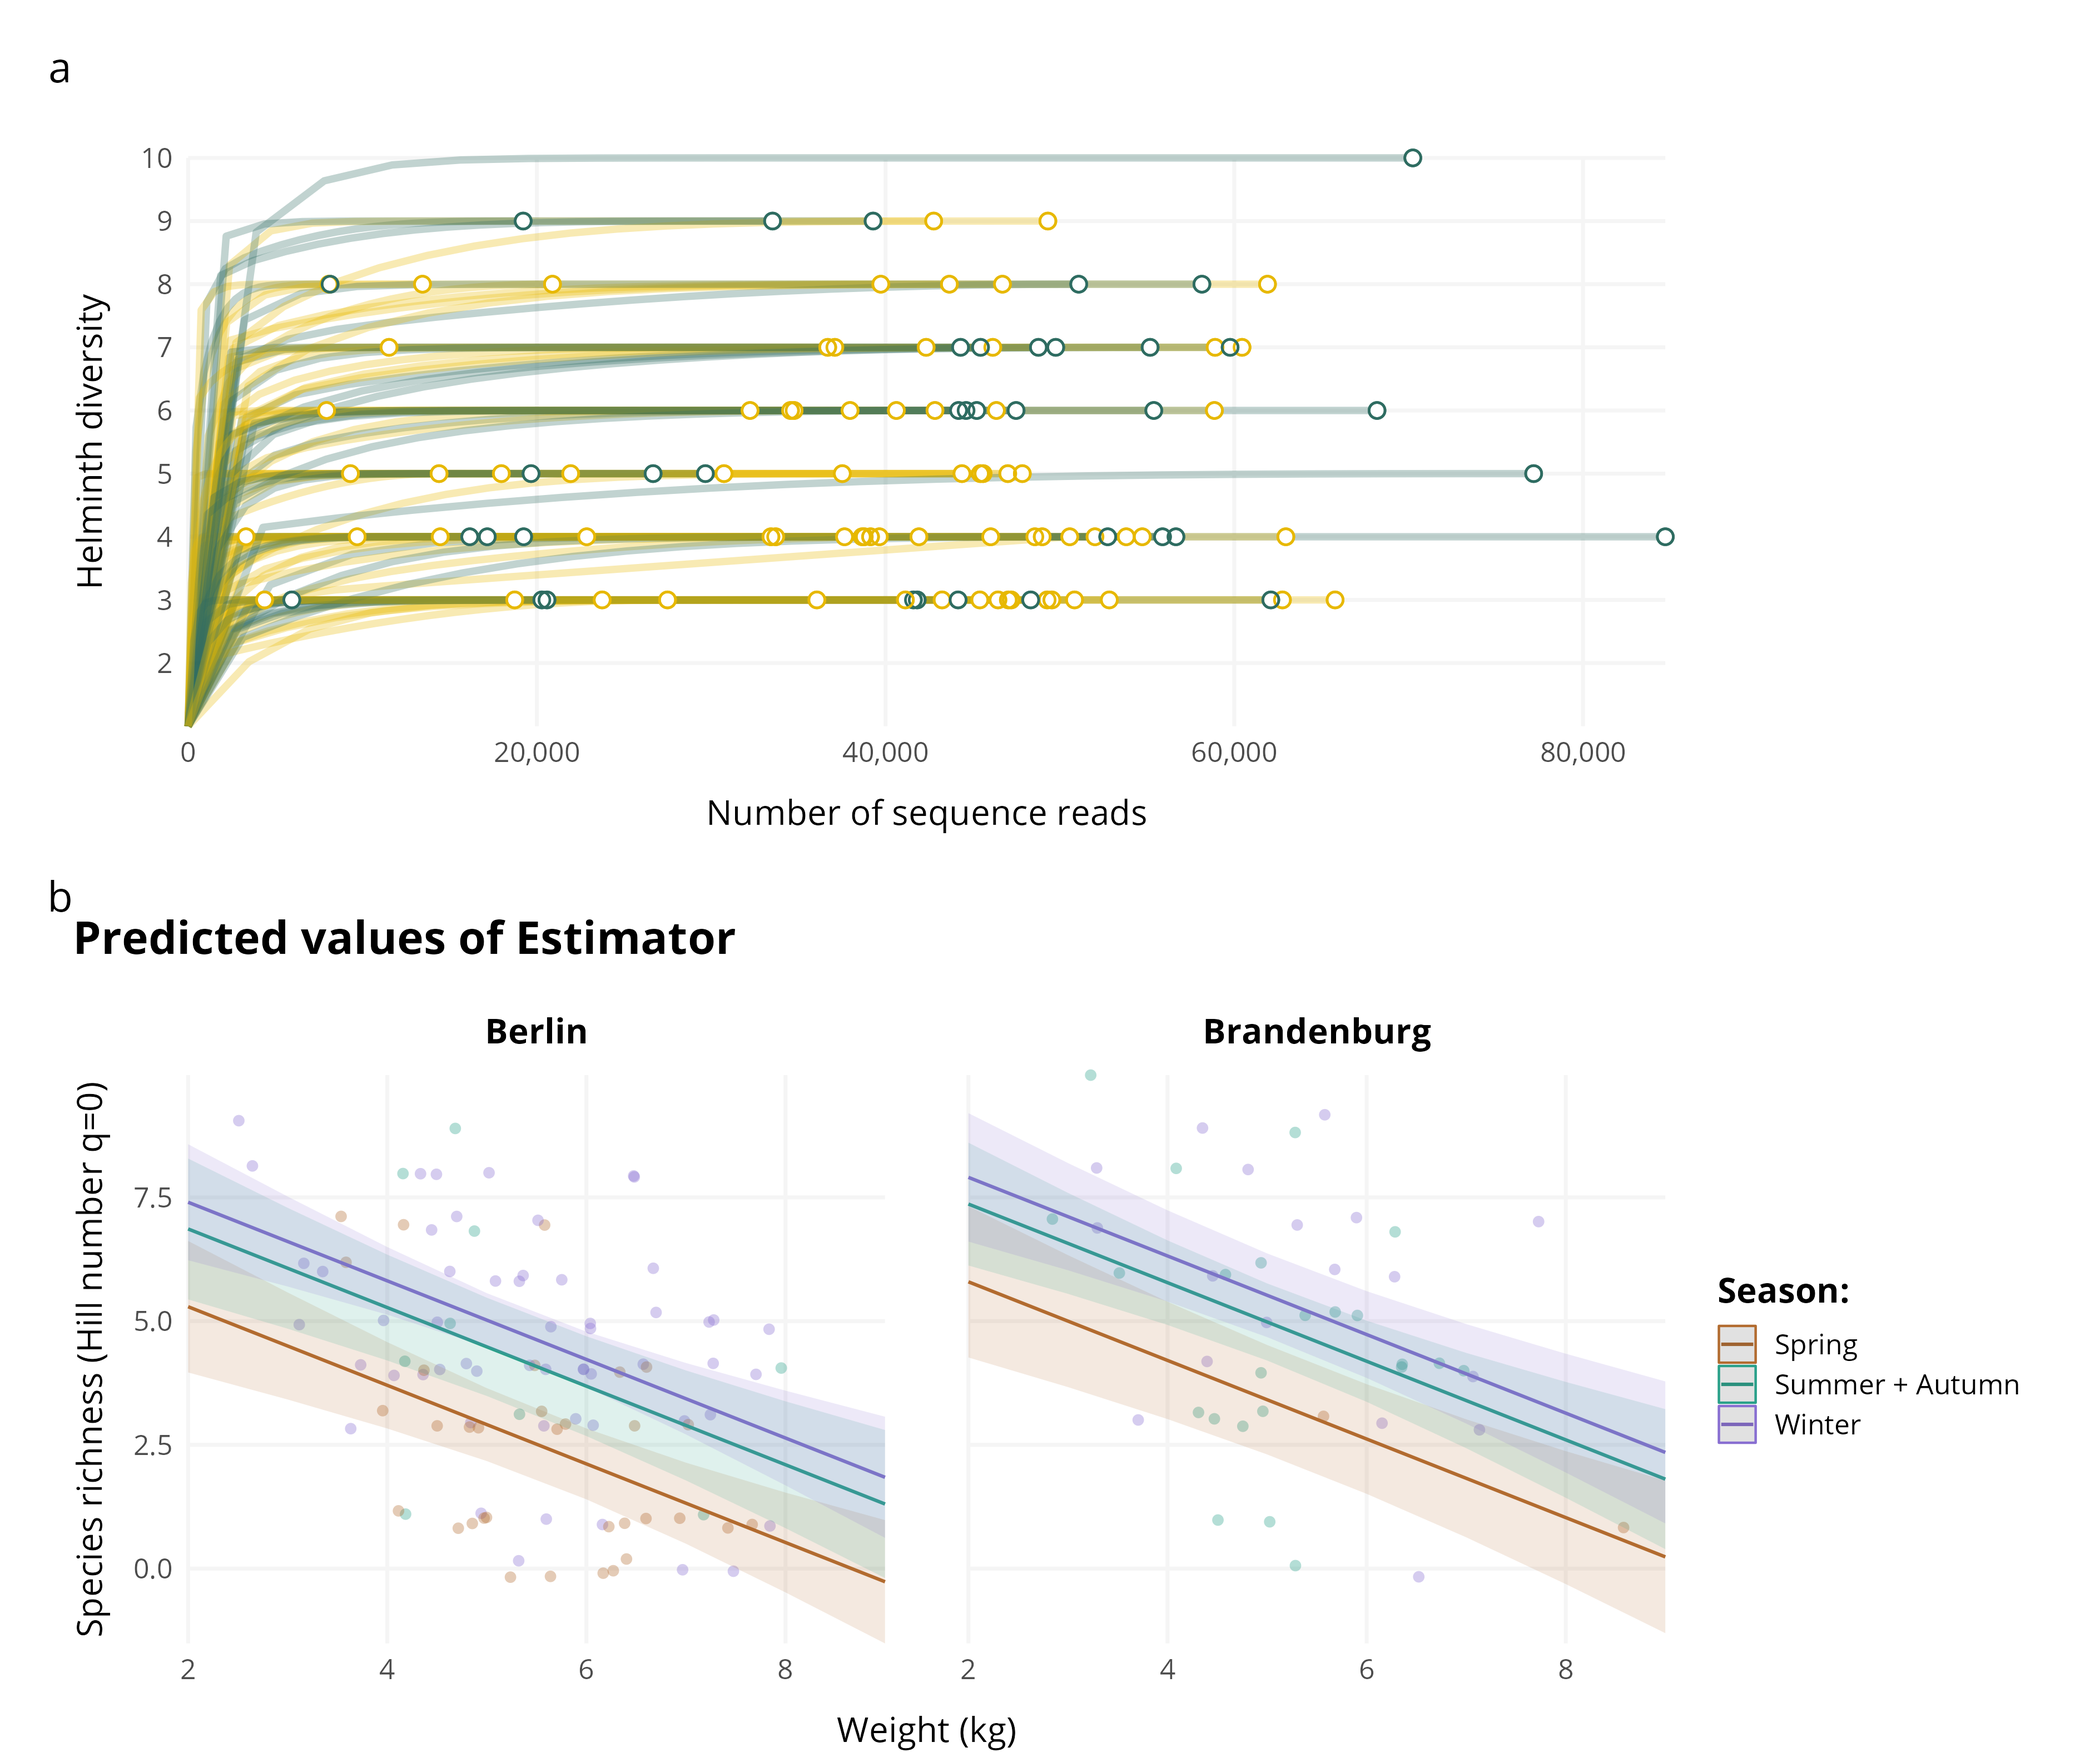
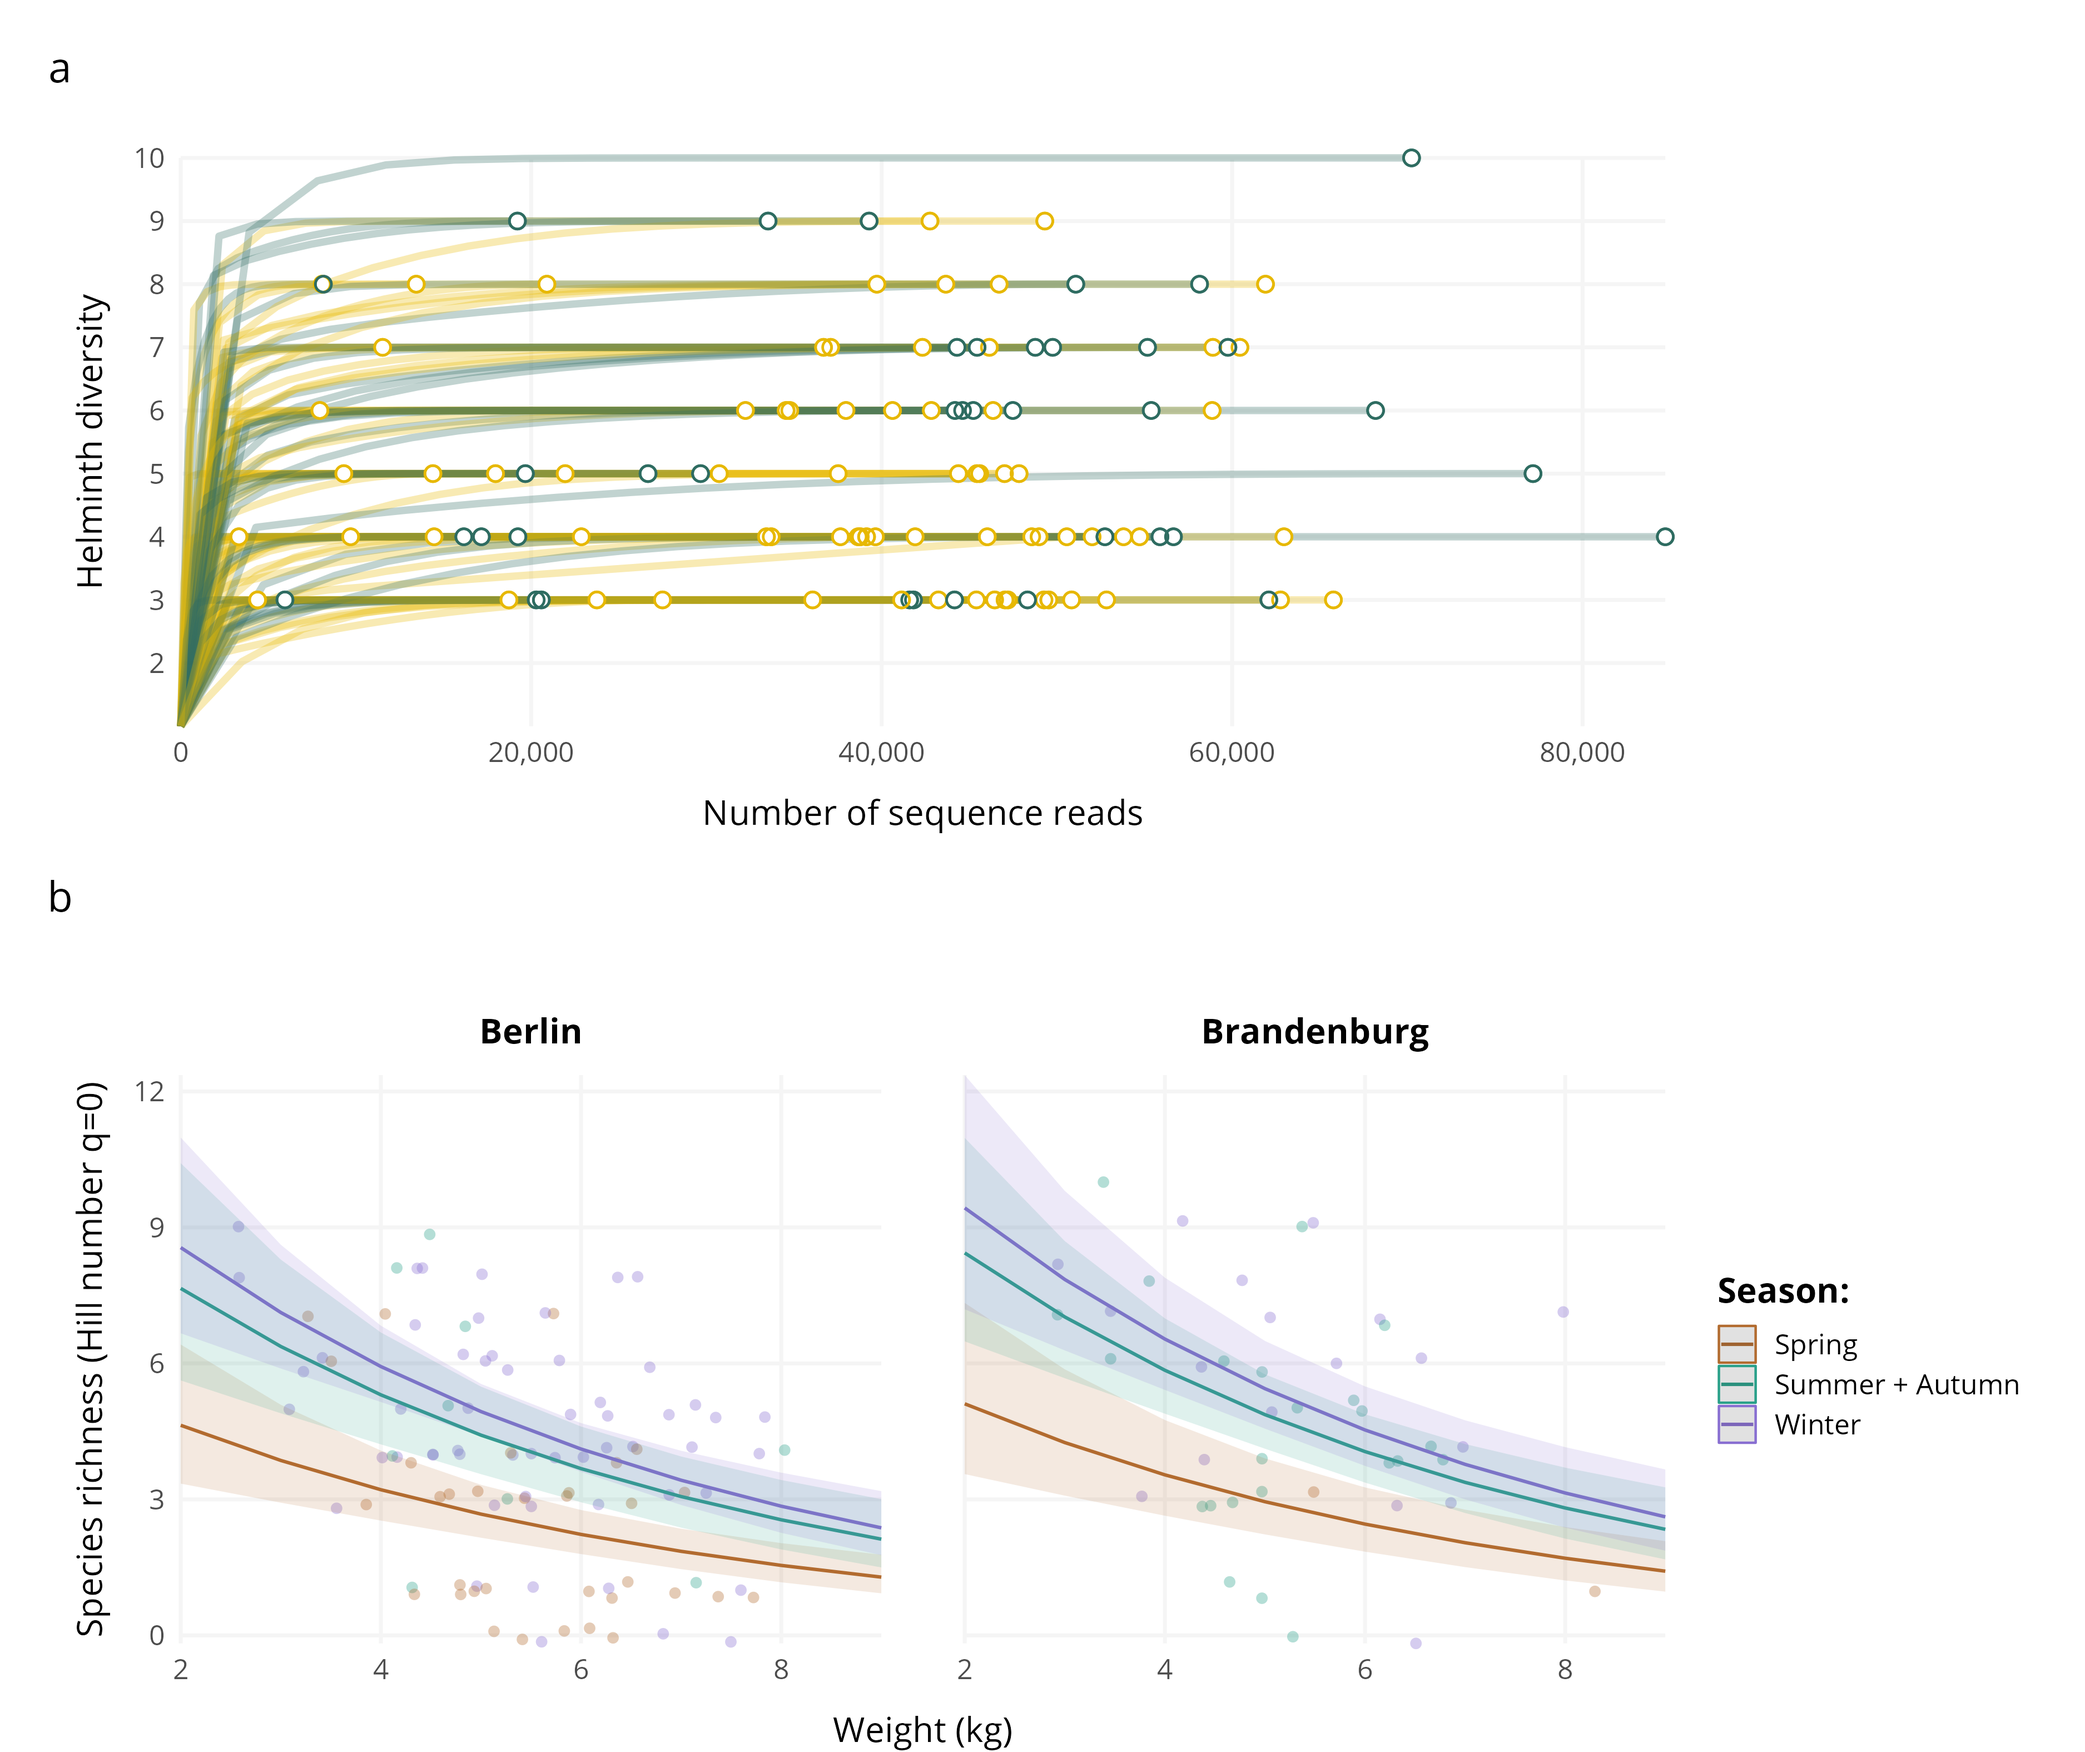
Final touch Fig2 and Table 2.

diff --git a/tables/HelmDiversityq0.html b/tables/HelmDiversityq0.html
@@ -1,52 +1,27 @@
 
-<table style="text-align:center"><tr><td colspan="6" style="border-bottom: 1px solid black"></td></tr><tr><td style="text-align:left"></td><td colspan="5">Species Richness (q=0)</td></tr>
-<tr><td></td><td colspan="5" style="border-bottom: 1px solid black"></td></tr>
-<tr><td style="text-align:left"></td><td colspan="5"></td></tr>
-<tr><td style="text-align:left"></td><td>(1)</td><td>(2)</td><td>(3)</td><td>(4)</td><td>(5)</td></tr>
-<tr><td colspan="6" style="border-bottom: 1px solid black"></td></tr><tr><td style="text-align:left">Constant</td><td>0.518</td><td>1.192</td><td>0.778</td><td>0.284</td><td>0.978</td></tr>
-<tr><td style="text-align:left"></td><td>(2.375)</td><td>(2.383)</td><td>(2.290)</td><td>(2.354)</td><td>(2.418)</td></tr>
-<tr><td style="text-align:left"></td><td></td><td></td><td></td><td></td><td></td></tr>
-<tr><td style="text-align:left">areaBrandenburg</td><td>0.143</td><td></td><td></td><td></td><td></td></tr>
-<tr><td style="text-align:left"></td><td>(0.128)</td><td></td><td></td><td></td><td></td></tr>
-<tr><td style="text-align:left"></td><td></td><td></td><td></td><td></td><td></td></tr>
-<tr><td style="text-align:left">imperv_1000m</td><td></td><td>-0.001</td><td></td><td></td><td>-0.002</td></tr>
-<tr><td style="text-align:left"></td><td></td><td>(0.002)</td><td></td><td></td><td>(0.004)</td></tr>
-<tr><td style="text-align:left"></td><td></td><td></td><td></td><td></td><td></td></tr>
-<tr><td style="text-align:left">tree_cover_1000m</td><td></td><td></td><td>0.001</td><td></td><td>0.001</td></tr>
-<tr><td style="text-align:left"></td><td></td><td></td><td>(0.003)</td><td></td><td>(0.003)</td></tr>
-<tr><td style="text-align:left"></td><td></td><td></td><td></td><td></td><td></td></tr>
-<tr><td style="text-align:left">human_fpi_1000m</td><td></td><td></td><td></td><td>-0.002</td><td>0.003</td></tr>
-<tr><td style="text-align:left"></td><td></td><td></td><td></td><td>(0.005)</td><td>(0.008)</td></tr>
-<tr><td style="text-align:left"></td><td></td><td></td><td></td><td></td><td></td></tr>
-<tr><td style="text-align:left">conditionexcellent</td><td>-0.091</td><td>-0.084</td><td>-0.078</td><td>-0.084</td><td>-0.071</td></tr>
-<tr><td style="text-align:left"></td><td>(0.103)</td><td>(0.101)</td><td>(0.101)</td><td>(0.103)</td><td>(0.105)</td></tr>
-<tr><td style="text-align:left"></td><td></td><td></td><td></td><td></td><td></td></tr>
-<tr><td style="text-align:left">weight_kg</td><td>-0.199<sup>***</sup></td><td>-0.202<sup>***</sup></td><td>-0.204<sup>***</sup></td><td>-0.205<sup>***</sup></td><td>-0.201<sup>***</sup></td></tr>
-<tr><td style="text-align:left"></td><td>(0.043)</td><td>(0.042)</td><td>(0.042)</td><td>(0.042)</td><td>(0.043)</td></tr>
-<tr><td style="text-align:left"></td><td></td><td></td><td></td><td></td><td></td></tr>
-<tr><td style="text-align:left">sexmale</td><td>0.157</td><td>0.212<sup>**</sup></td><td>0.218<sup>**</sup></td><td>0.187<sup>*</sup></td><td>0.221<sup>**</sup></td></tr>
-<tr><td style="text-align:left"></td><td>(0.105)</td><td>(0.105)</td><td>(0.105)</td><td>(0.106)</td><td>(0.108)</td></tr>
-<tr><td style="text-align:left"></td><td></td><td></td><td></td><td></td><td></td></tr>
-<tr><td style="text-align:left">agejuvenil</td><td>0.024</td><td>-0.100</td><td>-0.103</td><td>0.004</td><td>-0.099</td></tr>
-<tr><td style="text-align:left"></td><td>(0.196)</td><td>(0.209)</td><td>(0.209)</td><td>(0.195)</td><td>(0.210)</td></tr>
-<tr><td style="text-align:left"></td><td></td><td></td><td></td><td></td><td></td></tr>
-<tr><td style="text-align:left">seasonspring</td><td>0.399<sup>**</sup></td><td>0.495<sup>***</sup></td><td>0.523<sup>***</sup></td><td>0.471<sup>***</sup></td><td>0.512<sup>***</sup></td></tr>
-<tr><td style="text-align:left"></td><td>(0.170)</td><td>(0.160)</td><td>(0.152)</td><td>(0.160)</td><td>(0.163)</td></tr>
-<tr><td style="text-align:left"></td><td></td><td></td><td></td><td></td><td></td></tr>
-<tr><td style="text-align:left">seasonwinter</td><td>0.549<sup>***</sup></td><td>0.563<sup>***</sup></td><td>0.578<sup>***</sup></td><td>0.564<sup>***</sup></td><td>0.565<sup>***</sup></td></tr>
-<tr><td style="text-align:left"></td><td>(0.138)</td><td>(0.139)</td><td>(0.134)</td><td>(0.136)</td><td>(0.139)</td></tr>
-<tr><td style="text-align:left"></td><td></td><td></td><td></td><td></td><td></td></tr>
-<tr><td style="text-align:left">DNAng.ul</td><td>-0.001</td><td>-0.001</td><td>-0.001</td><td>-0.001</td><td>-0.001</td></tr>
-<tr><td style="text-align:left"></td><td>(0.001)</td><td>(0.001)</td><td>(0.001)</td><td>(0.001)</td><td>(0.001)</td></tr>
-<tr><td style="text-align:left"></td><td></td><td></td><td></td><td></td><td></td></tr>
-<tr><td style="text-align:left">DNA260.230</td><td>0.064</td><td>0.079</td><td>0.072</td><td>0.060</td><td>0.081</td></tr>
-<tr><td style="text-align:left"></td><td>(0.108)</td><td>(0.110)</td><td>(0.107)</td><td>(0.108)</td><td>(0.110)</td></tr>
-<tr><td style="text-align:left"></td><td></td><td></td><td></td><td></td><td></td></tr>
-<tr><td style="text-align:left">DNA260.280</td><td>0.687</td><td>0.329</td><td>0.508</td><td>0.869</td><td>0.385</td></tr>
-<tr><td style="text-align:left"></td><td>(1.295)</td><td>(1.281)</td><td>(1.238)</td><td>(1.245)</td><td>(1.287)</td></tr>
-<tr><td style="text-align:left"></td><td></td><td></td><td></td><td></td><td></td></tr>
-<tr><td colspan="6" style="border-bottom: 1px solid black"></td></tr><tr><td style="text-align:left">Observations</td><td>152</td><td>150</td><td>150</td><td>151</td><td>150</td></tr>
-<tr><td style="text-align:left">Log Likelihood</td><td>-301.679</td><td>-295.834</td><td>-295.812</td><td>-299.554</td><td>-295.694</td></tr>
-<tr><td style="text-align:left">Akaike Inf. Crit.</td><td>625.358</td><td>613.669</td><td>613.625</td><td>621.109</td><td>617.388</td></tr>
-<tr><td colspan="6" style="border-bottom: 1px solid black"></td></tr><tr><td style="text-align:left"><em>Note:</em></td><td colspan="5" style="text-align:right"><sup>*</sup>p<0.1; <sup>**</sup>p<0.05; <sup>***</sup>p<0.01</td></tr>
+<table style="text-align:center"><tr><td colspan="2" style="border-bottom: 1px solid black"></td></tr><tr><td style="text-align:left"></td><td><em>Dependent variable:</em></td></tr>
+<tr><td></td><td colspan="1" style="border-bottom: 1px solid black"></td></tr>
+<tr><td style="text-align:left"></td><td>Estimator</td></tr>
+<tr><td colspan="2" style="border-bottom: 1px solid black"></td></tr><tr><td style="text-align:left">areaBrandenburg</td><td>0.097</td></tr>
+<tr><td style="text-align:left"></td><td>(0.100)</td></tr>
+<tr><td style="text-align:left"></td><td></td></tr>
+<tr><td style="text-align:left">weight_kg</td><td>-0.183<sup>***</sup></td></tr>
+<tr><td style="text-align:left"></td><td>(0.036)</td></tr>
+<tr><td style="text-align:left"></td><td></td></tr>
+<tr><td style="text-align:left">sexmale</td><td>0.162<sup>*</sup></td></tr>
+<tr><td style="text-align:left"></td><td>(0.095)</td></tr>
+<tr><td style="text-align:left"></td><td></td></tr>
+<tr><td style="text-align:left">seasonspring</td><td>0.502<sup>***</sup></td></tr>
+<tr><td style="text-align:left"></td><td>(0.152)</td></tr>
+<tr><td style="text-align:left"></td><td></td></tr>
+<tr><td style="text-align:left">seasonwinter</td><td>0.613<sup>***</sup></td></tr>
+<tr><td style="text-align:left"></td><td>(0.124)</td></tr>
+<tr><td style="text-align:left"></td><td></td></tr>
+<tr><td style="text-align:left">Constant</td><td>1.796<sup>***</sup></td></tr>
+<tr><td style="text-align:left"></td><td>(0.210)</td></tr>
+<tr><td style="text-align:left"></td><td></td></tr>
+<tr><td colspan="2" style="border-bottom: 1px solid black"></td></tr><tr><td style="text-align:left">Observations</td><td>141</td></tr>
+<tr><td style="text-align:left">Log Likelihood</td><td>-302.746</td></tr>
+<tr><td style="text-align:left">Akaike Inf. Crit.</td><td>617.491</td></tr>
+<tr><td colspan="2" style="border-bottom: 1px solid black"></td></tr><tr><td style="text-align:left"><em>Note:</em></td><td style="text-align:right"><sup>*</sup>p<0.1; <sup>**</sup>p<0.05; <sup>***</sup>p<0.01</td></tr>
 </table>
